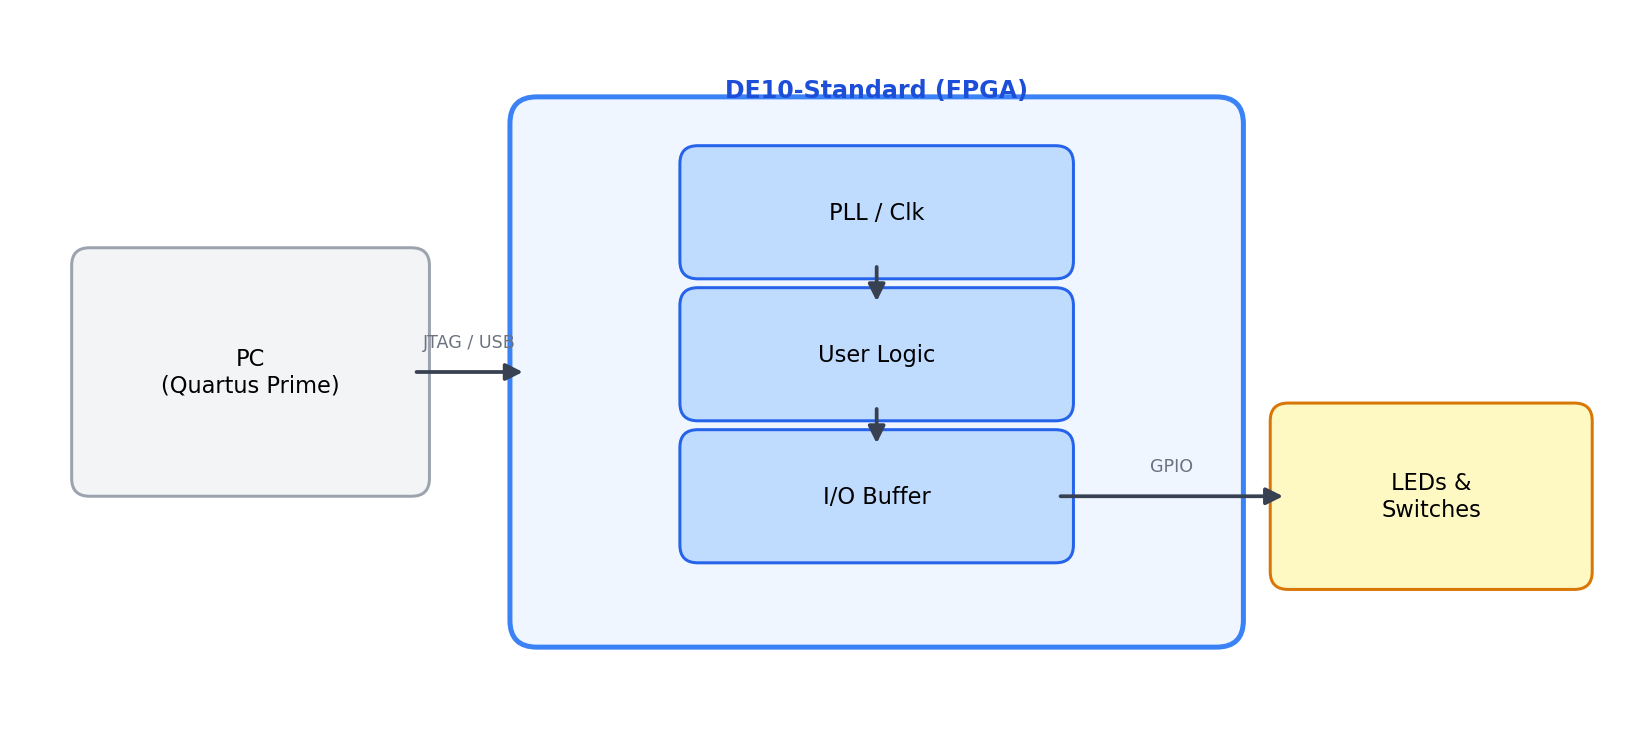
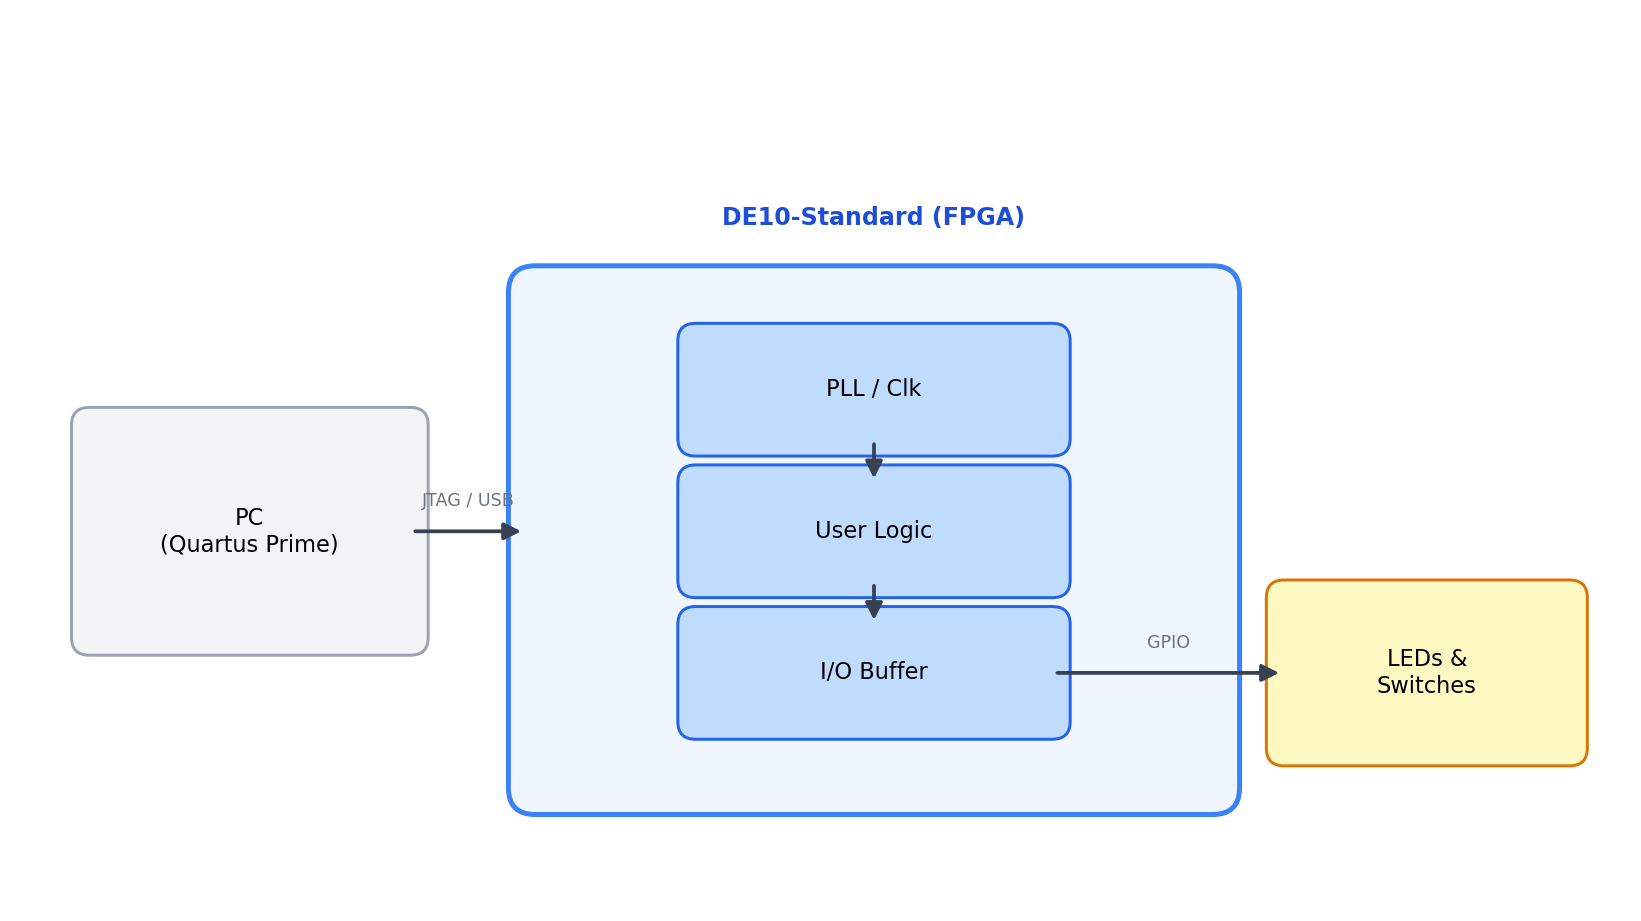
feat: add script to generate block diagram PNGs for LAB0-LAB3

diff --git a/scripts/gen_diagrams.py b/scripts/gen_diagrams.py
@@ -4,225 +4,243 @@ Output: e:/EE5215_LAB/images/fig_1_1.png, fig_2_1.png, fig_3_1.png, fig_4_1.png
 """
 
 import matplotlib.pyplot as plt
-import matplotlib.patches as mpatches
-from matplotlib.patches import FancyBboxPatch, FancyArrowPatch
-import matplotlib.patheffects as pe
+from matplotlib.patches import FancyBboxPatch
 import os
 
 OUT_DIR = os.path.join(os.path.dirname(os.path.dirname(__file__)), "images")
 os.makedirs(OUT_DIR, exist_ok=True)
 
-# ─── helpers ──────────────────────────────────────────────────────────────────
+# --------------------------------------------------------------------------- #
+# Helpers
+# --------------------------------------------------------------------------- #
 
 def add_box(ax, x, y, w, h, label, fc="#dbeafe", ec="#3b82f6", fontsize=9,
-            style="round,pad=0.1", bold=False, color="black"):
+            bold=False, color="black"):
     box = FancyBboxPatch((x - w/2, y - h/2), w, h,
-                         boxstyle=style, facecolor=fc, edgecolor=ec, linewidth=1.2, zorder=3)
+                         boxstyle="round,pad=0.1",
+                         facecolor=fc, edgecolor=ec, linewidth=1.2, zorder=3)
     ax.add_patch(box)
-    weight = "bold" if bold else "normal"
     ax.text(x, y, label, ha="center", va="center", fontsize=fontsize,
-            color=color, fontweight=weight, zorder=4, multialignment="center")
+            color=color, fontweight="bold" if bold else "normal",
+            zorder=4, multialignment="center")
 
 def add_trap(ax, x, y, w, h, label, fc="#d1fae5", ec="#059669", fontsize=9):
-    """Parallelogram approximated as FancyBbox with slant."""
     slope = 0.18
     xs = [x - w/2 + slope, x + w/2 + slope, x + w/2 - slope, x - w/2 - slope]
     ys = [y - h/2, y - h/2, y + h/2, y + h/2]
-    poly = plt.Polygon(list(zip(xs, ys)), closed=True, facecolor=fc, edgecolor=ec, linewidth=1.2, zorder=3)
+    poly = plt.Polygon(list(zip(xs, ys)), closed=True,
+                       facecolor=fc, edgecolor=ec, linewidth=1.2, zorder=3)
     ax.add_patch(poly)
-    ax.text(x, y, label, ha="center", va="center", fontsize=fontsize, zorder=4, multialignment="center")
+    ax.text(x, y, label, ha="center", va="center",
+            fontsize=fontsize, zorder=4, multialignment="center")
 
-def add_border_box(ax, x, y, w, h, title, fc="#eff6ff", ec="#3b82f6"):
+def add_border_box(ax, x, y, w, h, title="", fc="#eff6ff", ec="#3b82f6"):
+    """Draw a large rounded border box.  If title is given it appears above the box."""
     box = FancyBboxPatch((x - w/2, y - h/2), w, h,
-                         boxstyle="round,pad=0.15", facecolor=fc, edgecolor=ec,
-                         linewidth=2, zorder=1)
+                         boxstyle="round,pad=0.15",
+                         facecolor=fc, edgecolor=ec, linewidth=2, zorder=1)
     ax.add_patch(box)
-    ax.text(x, y + h/2 + 0.12, title, ha="center", va="bottom",
-            fontsize=9.5, fontweight="bold", color="#1d4ed8", zorder=5)
+    if title:
+        # Place title clearly above the top edge (0.35 units of clearance)
+        ax.text(x, y + h/2 + 0.35, title,
+                ha="center", va="bottom",
+                fontsize=9.5, fontweight="bold", color="#1d4ed8", zorder=5)
 
-def arrow(ax, x1, y1, x2, y2, label="", color="#374151", lw=1.5, style="-|>", ls="-", label_side="top"):
+def arrow(ax, x1, y1, x2, y2, label="", color="#374151", lw=1.5,
+          style="-|>", ls="-"):
     ax.annotate("", xy=(x2, y2), xytext=(x1, y1),
                 arrowprops=dict(arrowstyle=style, color=color, lw=lw,
                                 linestyle=ls, mutation_scale=14), zorder=5)
     if label:
-        mx, my = (x1+x2)/2, (y1+y2)/2
-        offset = 0.12 if label_side == "top" else -0.18
-        dx, dy = x2-x1, y2-y1
-        if abs(dx) > abs(dy):   # horizontal
-            ax.text(mx, my + offset, label, ha="center", va="bottom", fontsize=7, color="#6b7280", zorder=6)
-        else:                   # vertical
-            ax.text(mx + 0.12, my, label, ha="left", va="center", fontsize=7, color="#6b7280", zorder=6)
+        mx, my = (x1 + x2) / 2, (y1 + y2) / 2
+        if abs(x2 - x1) >= abs(y2 - y1):   # more horizontal
+            ax.text(mx, my + 0.12, label,
+                    ha="center", va="bottom", fontsize=7, color="#6b7280", zorder=6)
+        else:                               # more vertical
+            ax.text(mx + 0.12, my, label,
+                    ha="left", va="center", fontsize=7, color="#6b7280", zorder=6)
 
-# ══════════════════════════════════════════════════════════════════════════════
-# Figure 1.1 – LAB0
-# ══════════════════════════════════════════════════════════════════════════════
+# --------------------------------------------------------------------------- #
+# Figure 1.1  LAB0
+# --------------------------------------------------------------------------- #
 def make_fig11():
-    fig, ax = plt.subplots(figsize=(9, 4))
-    ax.set_xlim(0, 9); ax.set_ylim(0, 4)
+    fig, ax = plt.subplots(figsize=(9, 5.0))
+    ax.set_xlim(0, 9)
+    ax.set_ylim(0, 5.0)
     ax.axis("off")
 
     # PC
-    add_box(ax, 1.3, 2, 1.8, 1.2, "PC\n(Quartus Prime)", fc="#f3f4f6", ec="#9ca3af")
+    add_box(ax, 1.3, 2.1, 1.8, 1.2, "PC\n(Quartus Prime)", fc="#f3f4f6", ec="#9ca3af")
 
-    # FPGA border
-    add_border_box(ax, 4.8, 2, 3.8, 2.8, "DE10-Standard (FPGA)")
+    # FPGA border  center=(4.8, 2.05), h=2.8  -> top=3.45, title at 3.45+0.35=3.8  (ylim=5 OK)
+    add_border_box(ax, 4.8, 2.05, 3.8, 2.8, "DE10-Standard (FPGA)")
 
-    # inner FPGA blocks
-    add_box(ax, 4.8, 2.9, 2.0, 0.55, "PLL / Clk",    fc="#bfdbfe", ec="#2563eb")
-    add_box(ax, 4.8, 2.1, 2.0, 0.55, "User Logic",   fc="#bfdbfe", ec="#2563eb")
-    add_box(ax, 4.8, 1.3, 2.0, 0.55, "I/O Buffer",   fc="#bfdbfe", ec="#2563eb")
+    # Inner FPGA blocks (stacked)
+    add_box(ax, 4.8, 2.9,  2.0, 0.55, "PLL / Clk",  fc="#bfdbfe", ec="#2563eb")
+    add_box(ax, 4.8, 2.1,  2.0, 0.55, "User Logic", fc="#bfdbfe", ec="#2563eb")
+    add_box(ax, 4.8, 1.3,  2.0, 0.55, "I/O Buffer", fc="#bfdbfe", ec="#2563eb")
 
-    # LED/Switches  (aligned with I/O Buffer row y=1.3)
+    # LEDs & Switches  aligned with I/O Buffer row
     add_box(ax, 7.9, 1.3, 1.6, 0.85, "LEDs &\nSwitches", fc="#fef9c3", ec="#d97706")
 
     # Arrows
-    arrow(ax, 2.2, 2.0, 2.85, 2.0, "JTAG / USB")
-    arrow(ax, 4.8, 2.62, 4.8, 2.37)
-    arrow(ax, 4.8, 1.82, 4.8, 1.57)
-    arrow(ax, 5.8, 1.3, 7.1, 1.3, "GPIO")   # straight right from I/O Buffer
+    arrow(ax, 2.2,  2.1,  2.85, 2.1,  "JTAG / USB")   # PC -> FPGA border
+    arrow(ax, 4.8,  2.62, 4.8,  2.37)                  # PLL -> UserLogic
+    arrow(ax, 4.8,  1.82, 4.8,  1.57)                  # UserLogic -> I/O Buffer
+    arrow(ax, 5.8,  1.3,  7.1,  1.3,  "GPIO")          # I/O Buffer -> LEDs (straight)
 
-    plt.tight_layout(pad=0.2)
+    plt.tight_layout(pad=0.3)
     plt.savefig(os.path.join(OUT_DIR, "fig_1_1.png"), dpi=180, bbox_inches="tight")
     plt.close()
-    print("✓ fig_1_1.png")
+    print("fig_1_1.png OK")
 
-# ══════════════════════════════════════════════════════════════════════════════
-# Figure 2.1 – LAB1
-# ══════════════════════════════════════════════════════════════════════════════
+# --------------------------------------------------------------------------- #
+# Figure 2.1  LAB1
+# --------------------------------------------------------------------------- #
 def make_fig21():
     fig, ax = plt.subplots(figsize=(10, 4.5))
-    ax.set_xlim(0, 10); ax.set_ylim(0, 4.5)
+    ax.set_xlim(0, 10)
+    ax.set_ylim(0, 4.5)
     ax.axis("off")
 
-    ax.text(5, 4.3, "FPGA – Combinational Logic Block",
-            ha="center", va="top", fontsize=10, fontweight="bold", color="#1d4ed8")
+    # FPGA border with title
+    add_border_box(ax, 4.8, 2.25, 3.8, 3.2, "FPGA - Combinational Logic Block")
 
     # Input
     add_trap(ax, 1.1, 2.25, 1.6, 0.85, "SW[9:0]\n(Input)", fc="#bbf7d0", ec="#16a34a")
 
-    # FPGA border
-    add_border_box(ax, 4.8, 2.25, 3.8, 3.2, "")
-
     # Internal blocks
-    add_box(ax, 4.8, 3.2, 2.5, 0.65, "Decoder /\nEncoder", fc="#bfdbfe", ec="#2563eb")
-    add_box(ax, 4.8, 2.25, 2.5, 0.65, "MUX",               fc="#bfdbfe", ec="#2563eb")
-    add_box(ax, 4.8, 1.3,  2.5, 0.65, "ALU / Adder",       fc="#bfdbfe", ec="#2563eb")
+    add_box(ax, 4.8, 3.2,  2.5, 0.65, "Decoder /\nEncoder", fc="#bfdbfe", ec="#2563eb")
+    add_box(ax, 4.8, 2.25, 2.5, 0.65, "MUX",                fc="#bfdbfe", ec="#2563eb")
+    add_box(ax, 4.8, 1.3,  2.5, 0.65, "ALU / Adder",        fc="#bfdbfe", ec="#2563eb")
 
     # Outputs
-    add_trap(ax, 8.5, 3.2, 1.8, 0.85, "LEDR/G\n(Output)",  fc="#fed7aa", ec="#ea580c")
-    add_trap(ax, 8.5, 1.3, 1.8, 0.85, "HEX\n7-Segment",    fc="#fed7aa", ec="#ea580c")
+    add_trap(ax, 8.5, 3.2, 1.8, 0.85, "LEDR/G\n(Output)", fc="#fed7aa", ec="#ea580c")
+    add_trap(ax, 8.5, 1.3, 1.8, 0.85, "HEX\n7-Segment",   fc="#fed7aa", ec="#ea580c")
 
     # Arrows
-    arrow(ax, 1.9, 2.25, 2.85, 2.25, "10 bits")             # SW → FPGA
-    arrow(ax, 4.8, 2.87, 4.8, 2.57)                          # Dec → MUX
-    arrow(ax, 4.8, 1.92, 4.8, 1.62)                          # MUX → ALU
-    arrow(ax, 6.05, 3.2, 7.6, 3.2, "4b")                     # Dec → LED
-    arrow(ax, 6.05, 1.3, 7.6, 1.3, "4b BCD")                 # ALU → HEX
+    arrow(ax, 1.9,  2.25, 2.85, 2.25, "10 bits")   # SW -> FPGA
+    arrow(ax, 4.8,  2.87, 4.8,  2.57)               # Dec -> MUX
+    arrow(ax, 4.8,  1.92, 4.8,  1.62)               # MUX -> ALU
+    arrow(ax, 6.05, 3.2,  7.6,  3.2,  "4b")         # Dec -> LED
+    arrow(ax, 6.05, 1.3,  7.6,  1.3,  "4b BCD")     # ALU -> HEX
 
-    plt.tight_layout(pad=0.2)
+    plt.tight_layout(pad=0.3)
     plt.savefig(os.path.join(OUT_DIR, "fig_2_1.png"), dpi=180, bbox_inches="tight")
     plt.close()
-    print("✓ fig_2_1.png")
+    print("fig_2_1.png OK")
 
-# ══════════════════════════════════════════════════════════════════════════════
-# Figure 3.1 – LAB2
-# ══════════════════════════════════════════════════════════════════════════════
+# --------------------------------------------------------------------------- #
+# Figure 3.1  LAB2
+# --------------------------------------------------------------------------- #
 def make_fig31():
-    fig, ax = plt.subplots(figsize=(11, 5))
-    ax.set_xlim(0, 11); ax.set_ylim(0, 5)
+    fig, ax = plt.subplots(figsize=(11, 5.5))
+    ax.set_xlim(0, 11)
+    ax.set_ylim(0, 5.5)
     ax.axis("off")
 
-    ax.text(5.8, 4.85, "FPGA – Sequential Logic Modules",
-            ha="center", va="top", fontsize=10, fontweight="bold", color="#1d4ed8")
+    # FPGA border with title.
+    # center=(5.8, 2.7), h=3.0  -> top=4.2, title at 4.2+0.35=4.55  (ylim=5.5 OK)
+    add_border_box(ax, 5.8, 2.7, 5.6, 3.0, "FPGA - Sequential Logic Modules")
 
-    # Clock source
-    add_box(ax, 0.9, 3.2, 1.4, 0.85, "50 MHz\nClock", fc="#f3f4f6", ec="#9ca3af")
+    # Clock source  y=3.6 (same as Clock Divider row)
+    add_box(ax, 0.9, 3.6, 1.4, 0.75, "50 MHz\nClock", fc="#f3f4f6", ec="#9ca3af")
 
-    # FPGA border  (x, y = center)
-    add_border_box(ax, 5.5, 2.8, 5.8, 3.6, "")
+    # RESET  y=2.3 (same as Shift Register row)
+    add_trap(ax, 1.4, 2.3, 1.4, 0.75, "RESET\n(SW)", fc="#fee2e2", ec="#dc2626")
 
-    # RESET (left outside FPGA, below clock)
-    add_trap(ax, 1.5, 1.6, 1.4, 0.75, "RESET\n(SW)", fc="#fee2e2", ec="#dc2626")
+    # Internal blocks  (2 x 2 grid)
+    add_box(ax, 4.5, 3.6, 2.2, 0.7, "Clock Divider",             fc="#bfdbfe", ec="#2563eb")
+    add_box(ax, 7.3, 3.6, 2.2, 0.7, "FSM\nController",           fc="#e9d5ff", ec="#7c3aed")
+    add_box(ax, 4.5, 2.3, 2.2, 0.7, "Shift Register\n/ Counter", fc="#bfdbfe", ec="#2563eb")
+    add_box(ax, 7.3, 2.3, 2.2, 0.7, "Output Logic",              fc="#bfdbfe", ec="#2563eb")
 
-    # Internal blocks
-    add_box(ax, 4.3, 3.6, 2.2, 0.7, "Clock Divider",          fc="#bfdbfe", ec="#2563eb")
-    add_box(ax, 7.0, 3.6, 2.2, 0.7, "FSM\nController",        fc="#e9d5ff", ec="#7c3aed")
-    add_box(ax, 4.3, 2.3, 2.2, 0.7, "Shift Register\n/ Counter", fc="#bfdbfe", ec="#2563eb")
-    add_box(ax, 7.0, 2.3, 2.2, 0.7, "Output Logic",            fc="#bfdbfe", ec="#2563eb")
+    # LEDs output  y=2.3 (same row)
+    add_trap(ax, 10.1, 2.3, 1.5, 0.75, "LEDs\nOutput", fc="#fed7aa", ec="#ea580c")
 
-    # LEDs output
-    add_trap(ax, 10.0, 2.3, 1.5, 0.8, "LEDs\nOutput", fc="#fed7aa", ec="#ea580c")
+    # Arrows  – Clock and RESET are now perfectly horizontal
+    arrow(ax, 1.6, 3.6, 3.4, 3.6, "50MHz")     # Clock -> ClkDiv  (straight)
+    arrow(ax, 2.1, 2.3, 3.4, 2.3)               # RESET -> ShiftReg (straight)
+    arrow(ax, 5.6, 3.6, 6.2, 3.6)               # ClkDiv -> FSM
+    arrow(ax, 4.5, 3.25, 4.5, 2.65)             # ClkDiv -> ShiftReg
+    arrow(ax, 7.3, 3.25, 7.3, 2.65)             # FSM -> OutputLogic
+    arrow(ax, 5.6, 2.3, 6.2, 2.3)               # ShiftReg -> OutputLogic
+    arrow(ax, 8.4, 2.3, 9.35, 2.3, "GPIO")      # OutputLogic -> LEDs
 
-    # Arrows
-    arrow(ax, 1.6, 3.2, 2.6, 3.6, "50MHz")       # Clock → ClkDiv (angled up)
-    arrow(ax, 2.2, 1.6, 3.2, 2.3)                 # RESET → ShiftReg (angled)
-    arrow(ax, 5.4, 3.6, 5.9, 3.6)                 # ClkDiv → FSM
-    arrow(ax, 4.3, 3.25, 4.3, 2.65)               # ClkDiv → ShiftReg
-    arrow(ax, 7.0, 3.25, 7.0, 2.65)               # FSM → OutputLogic
-    arrow(ax, 5.4, 2.3, 5.9, 2.3)                 # ShiftReg → OutputLogic
-    arrow(ax, 8.1, 2.3, 9.25, 2.3, "GPIO")        # OutputLogic → LEDs
-
-    plt.tight_layout(pad=0.2)
+    plt.tight_layout(pad=0.3)
     plt.savefig(os.path.join(OUT_DIR, "fig_3_1.png"), dpi=180, bbox_inches="tight")
     plt.close()
-    print("✓ fig_3_1.png")
+    print("fig_3_1.png OK")
 
-# ══════════════════════════════════════════════════════════════════════════════
-# Figure 4.1 – LAB3
-# ══════════════════════════════════════════════════════════════════════════════
+# --------------------------------------------------------------------------- #
+# Figure 4.1  LAB3
+# --------------------------------------------------------------------------- #
 def make_fig41():
-    fig, ax = plt.subplots(figsize=(13, 6))
-    ax.set_xlim(0, 13); ax.set_ylim(0, 6)
+    fig, ax = plt.subplots(figsize=(13, 6.5))
+    ax.set_xlim(0, 13)
+    ax.set_ylim(0, 6.5)
     ax.axis("off")
 
-    ax.text(6.5, 5.85, "I2C Master Core (FPGA)",
-            ha="center", va="top", fontsize=10, fontweight="bold", color="#1d4ed8")
+    # FPGA core border with title
+    # center=(6.0, 3.2), h=4.5  -> top=5.45, title at 5.45+0.35=5.8  (ylim=6.5 OK)
+    add_border_box(ax, 6.0, 3.2, 6.5, 4.5, "I2C Master Core (FPGA)")
 
     # Processor Interface
-    add_box(ax, 1.0, 3.0, 1.7, 1.5, "Processor\nInterface\n(Reg R/W)", fc="#f3f4f6", ec="#9ca3af")
-
-    # FPGA core border
-    add_border_box(ax, 6.0, 3.0, 6.5, 4.5, "")
+    add_box(ax, 1.0, 3.2, 1.7, 1.5, "Processor\nInterface\n(Reg R/W)",
+            fc="#f3f4f6", ec="#9ca3af")
 
     # Left column (teal)
-    add_box(ax, 4.7, 4.2, 2.2, 0.75, "Clock Gen\nSynchronizer",  fc="#ccfbf1", ec="#0d9488")
-    add_box(ax, 4.7, 3.0, 2.2, 0.75, "Tx / Rx\nData FSM",        fc="#ccfbf1", ec="#0d9488")
-    add_box(ax, 4.7, 1.8, 2.2, 0.75, "ACK / NACK\nLogic",        fc="#ccfbf1", ec="#0d9488")
+    add_box(ax, 4.7, 4.4, 2.2, 0.75, "Clock Gen\nSynchronizer", fc="#ccfbf1", ec="#0d9488")
+    add_box(ax, 4.7, 3.2, 2.2, 0.75, "Tx / Rx\nData FSM",       fc="#ccfbf1", ec="#0d9488")
+    add_box(ax, 4.7, 2.0, 2.2, 0.75, "ACK / NACK\nLogic",       fc="#ccfbf1", ec="#0d9488")
 
     # Right column (purple)
-    add_box(ax, 7.4, 4.2, 2.2, 0.75, "I2C Master\nControl FSM",  fc="#e9d5ff", ec="#7c3aed")
-    add_box(ax, 7.4, 3.0, 2.2, 0.75, "I2C Bus\nControl FSM",     fc="#e9d5ff", ec="#7c3aed")
+    add_box(ax, 7.4, 4.4, 2.2, 0.75, "I2C Master\nControl FSM", fc="#e9d5ff", ec="#7c3aed")
+    add_box(ax, 7.4, 3.2, 2.2, 0.75, "I2C Bus\nControl FSM",    fc="#e9d5ff", ec="#7c3aed")
 
     # I2C bus
-    add_box(ax, 10.2, 3.0, 1.8, 1.2, "I2C Bus\nSCL / SDA",      fc="#fed7aa", ec="#ea580c")
+    add_box(ax, 10.2, 3.2, 1.8, 1.2, "I2C Bus\nSCL / SDA", fc="#fed7aa", ec="#ea580c")
 
     # I2C Slave
-    add_box(ax, 12.2, 3.0, 1.4, 1.0, "I2C Slave\nDevice",        fc="#fef9c3", ec="#d97706", bold=True)
+    add_box(ax, 12.2, 3.2, 1.4, 1.0, "I2C Slave\nDevice",
+            fc="#fef9c3", ec="#d97706", bold=True)
 
-    # Arrows – processor → core
-    arrow(ax, 1.85, 3.0, 3.6, 3.0, "Config/Data")
+    # ── Arrows ──────────────────────────────────────────────────────────────
 
-    # Internal
-    arrow(ax, 5.8, 4.2, 6.3, 4.2)                      # ClkGen → MasterFSM
-    arrow(ax, 7.4, 3.82, 7.4, 3.37)                     # MasterFSM → BusFSM
-    arrow(ax, 4.7, 3.82, 4.7, 3.37)                     # ClkGen → TxRx
-    arrow(ax, 4.7, 2.62, 4.7, 2.17)                     # TxRx → ACK
+    # Processor -> core
+    arrow(ax, 1.85, 3.2, 3.6, 3.2, "Config/Data")
 
-    # Dashed feedback arrows
-    arrow(ax, 7.4, 4.0, 5.8, 3.35, style="-|>", ls="--", color="#7c3aed")   # MasterFSM → TxRx
-    arrow(ax, 5.8, 1.8, 7.3, 3.0,  style="-|>", ls="--", color="#0d9488")   # ACK → BusFSM
+    # Main internal arrows
+    arrow(ax, 5.8, 4.4, 6.3, 4.4)           # ClkGen -> MasterFSM
+    arrow(ax, 7.4, 4.02, 7.4, 3.57)         # MasterFSM -> BusFSM
+    arrow(ax, 4.7, 4.02, 4.7, 3.57)         # ClkGen -> TxRx
+    arrow(ax, 4.7, 2.82, 4.7, 2.37)         # TxRx -> ACK
 
-    # SCL/SDA → I2C bus
-    arrow(ax, 8.5, 3.25, 9.3, 3.25, "SCL", color="#dc2626")
-    arrow(ax, 8.5, 2.85,  9.3, 2.85, "SDA", color="#dc2626")
+    # Dashed feedback: MasterFSM -> TxRx  (left side, safe path)
+    arrow(ax, 7.4, 4.15, 5.8, 3.55, style="-|>", ls="--", color="#7c3aed")
 
-    # I2C bus → slave
-    arrow(ax, 11.1, 3.0, 11.5, 3.0, "Open-drain")
+    # Dashed feedback: ACK -> BusFSM
+    # Route BELOW via arc to avoid covering I2C Bus Control FSM text.
+    # xytext = start at ACK bottom-center, xy = end at BusFSM bottom-center
+    ax.annotate("", xy=(7.4, 2.82), xytext=(4.7, 1.62),
+                arrowprops=dict(
+                    arrowstyle="-|>", color="#0d9488", lw=1.5,
+                    linestyle="--",
+                    connectionstyle="arc3,rad=-0.30",
+                    mutation_scale=14
+                ), zorder=2)   # zorder=2 -> behind boxes
 
-    plt.tight_layout(pad=0.2)
+    # SCL / SDA -> I2C bus
+    arrow(ax, 8.5, 3.45, 9.3, 3.45, "SCL", color="#dc2626")
+    arrow(ax, 8.5, 3.05, 9.3, 3.05, "SDA", color="#dc2626")
+
+    # I2C bus -> slave
+    arrow(ax, 11.1, 3.2, 11.5, 3.2, "Open-drain")
+
+    plt.tight_layout(pad=0.3)
     plt.savefig(os.path.join(OUT_DIR, "fig_4_1.png"), dpi=180, bbox_inches="tight")
     plt.close()
-    print("✓ fig_4_1.png")
+    print("fig_4_1.png OK")
 
 
 if __name__ == "__main__":
